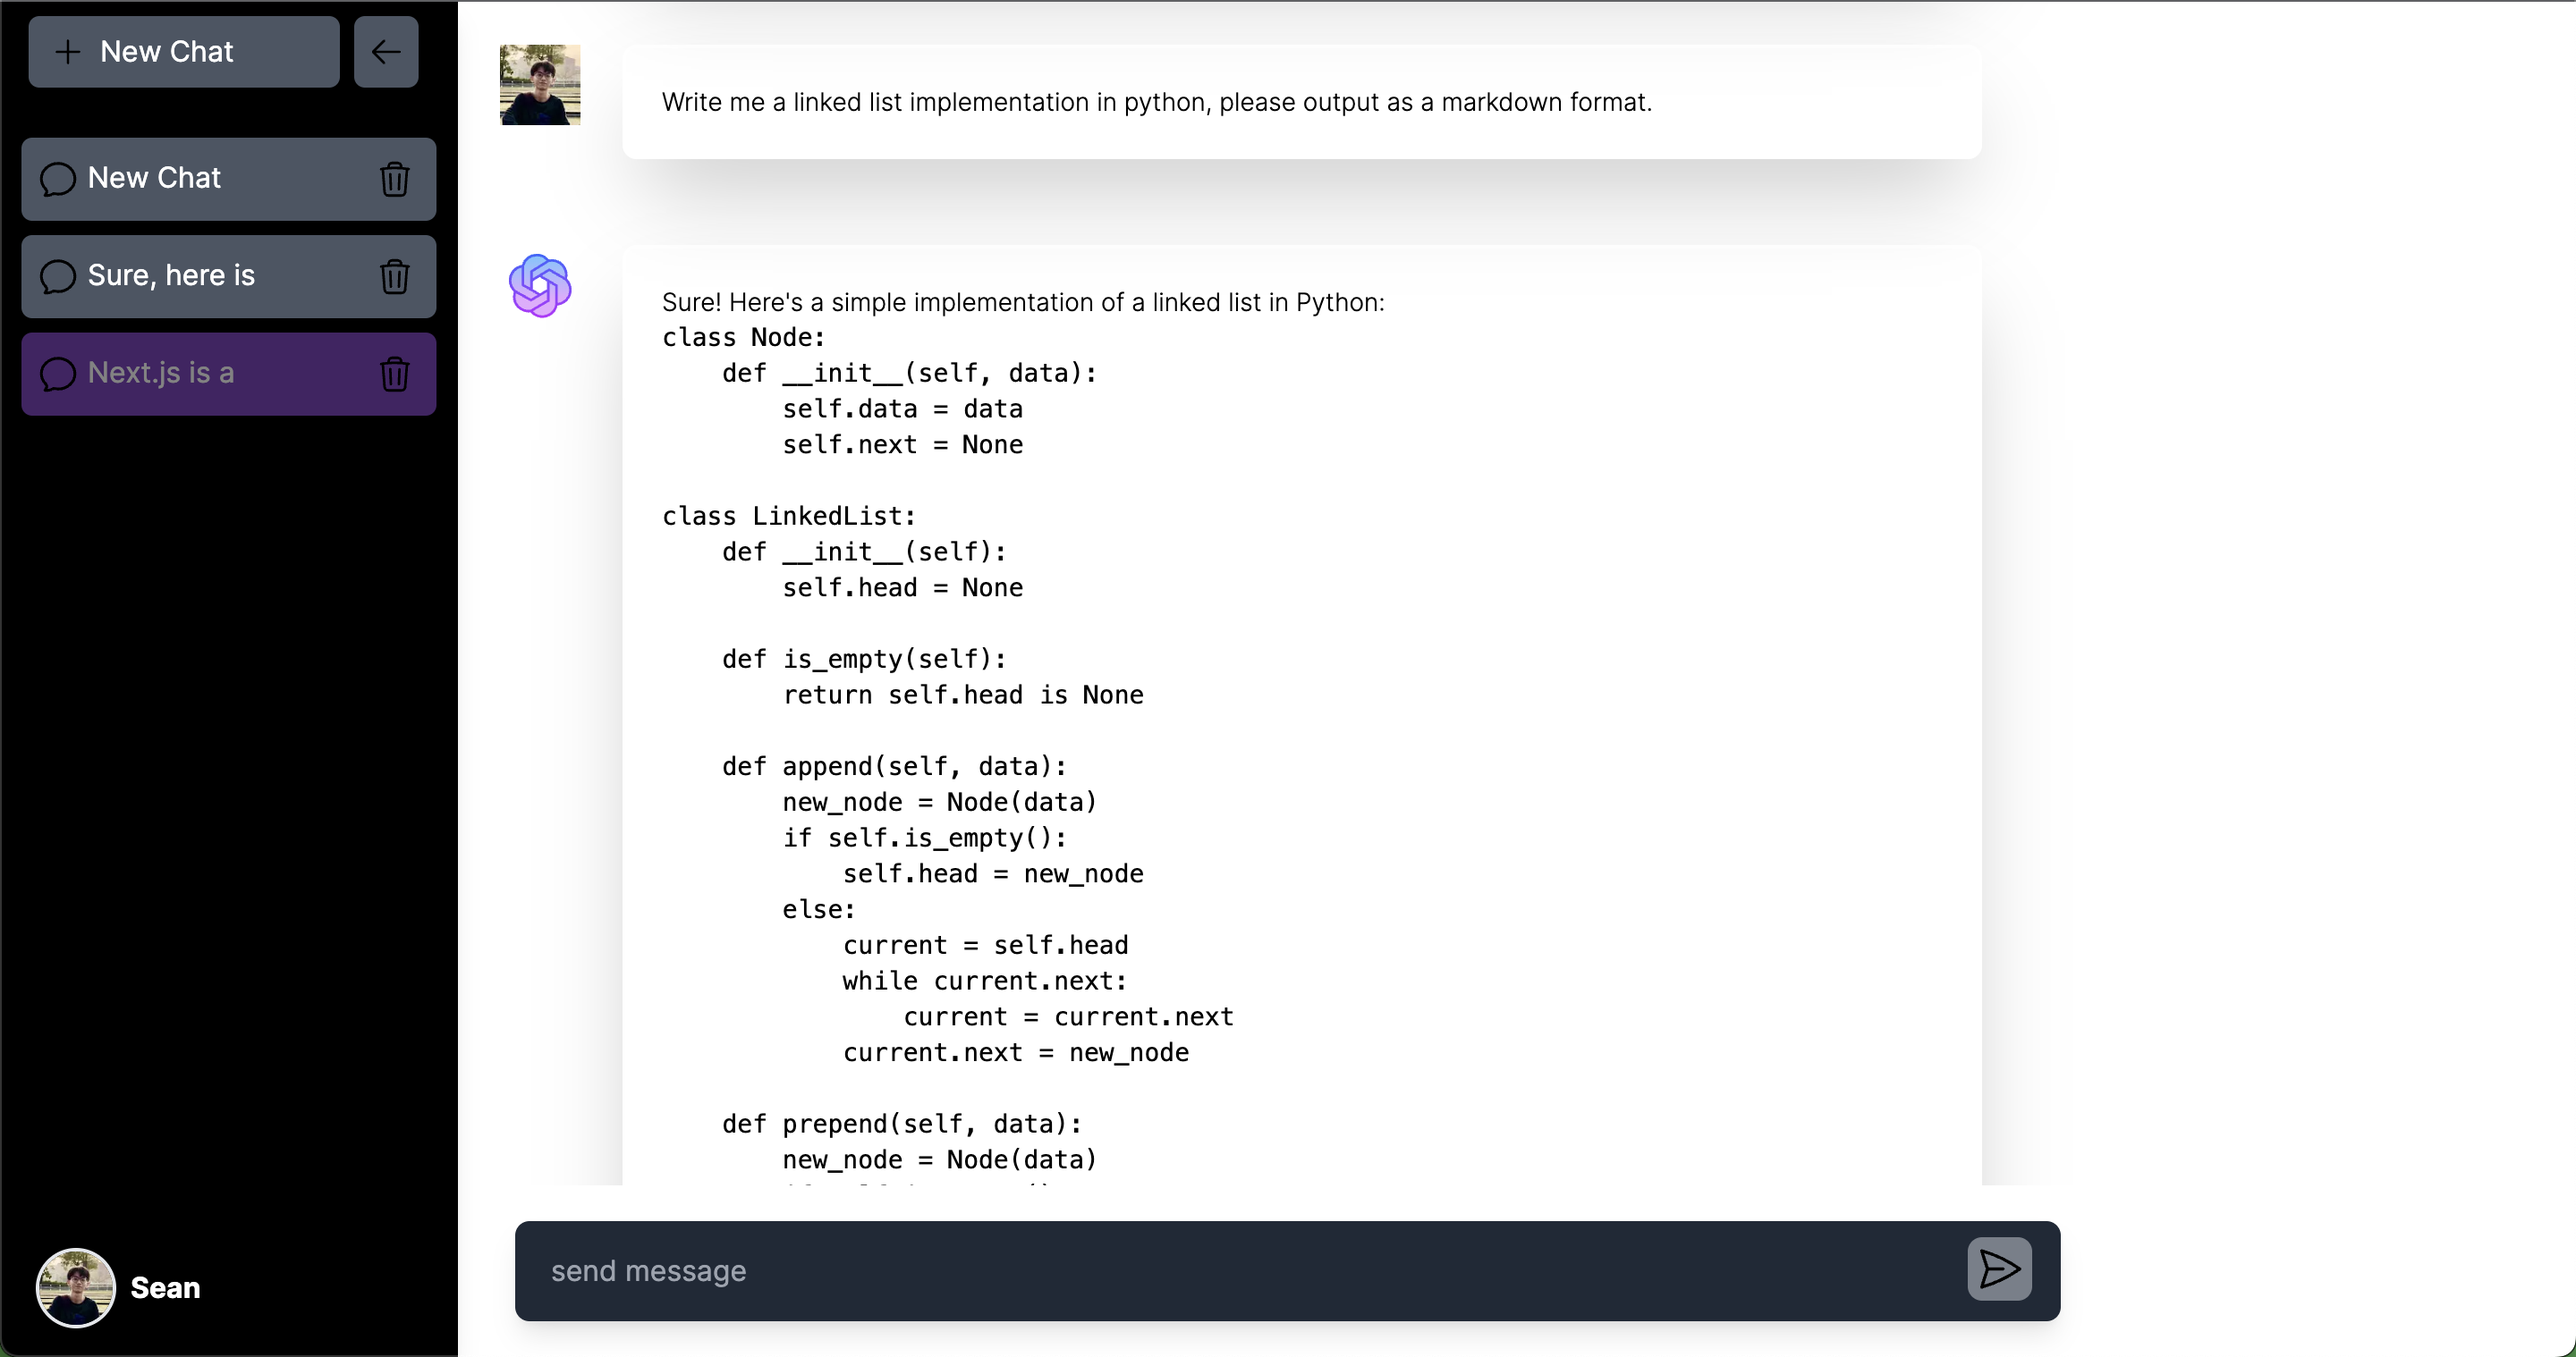
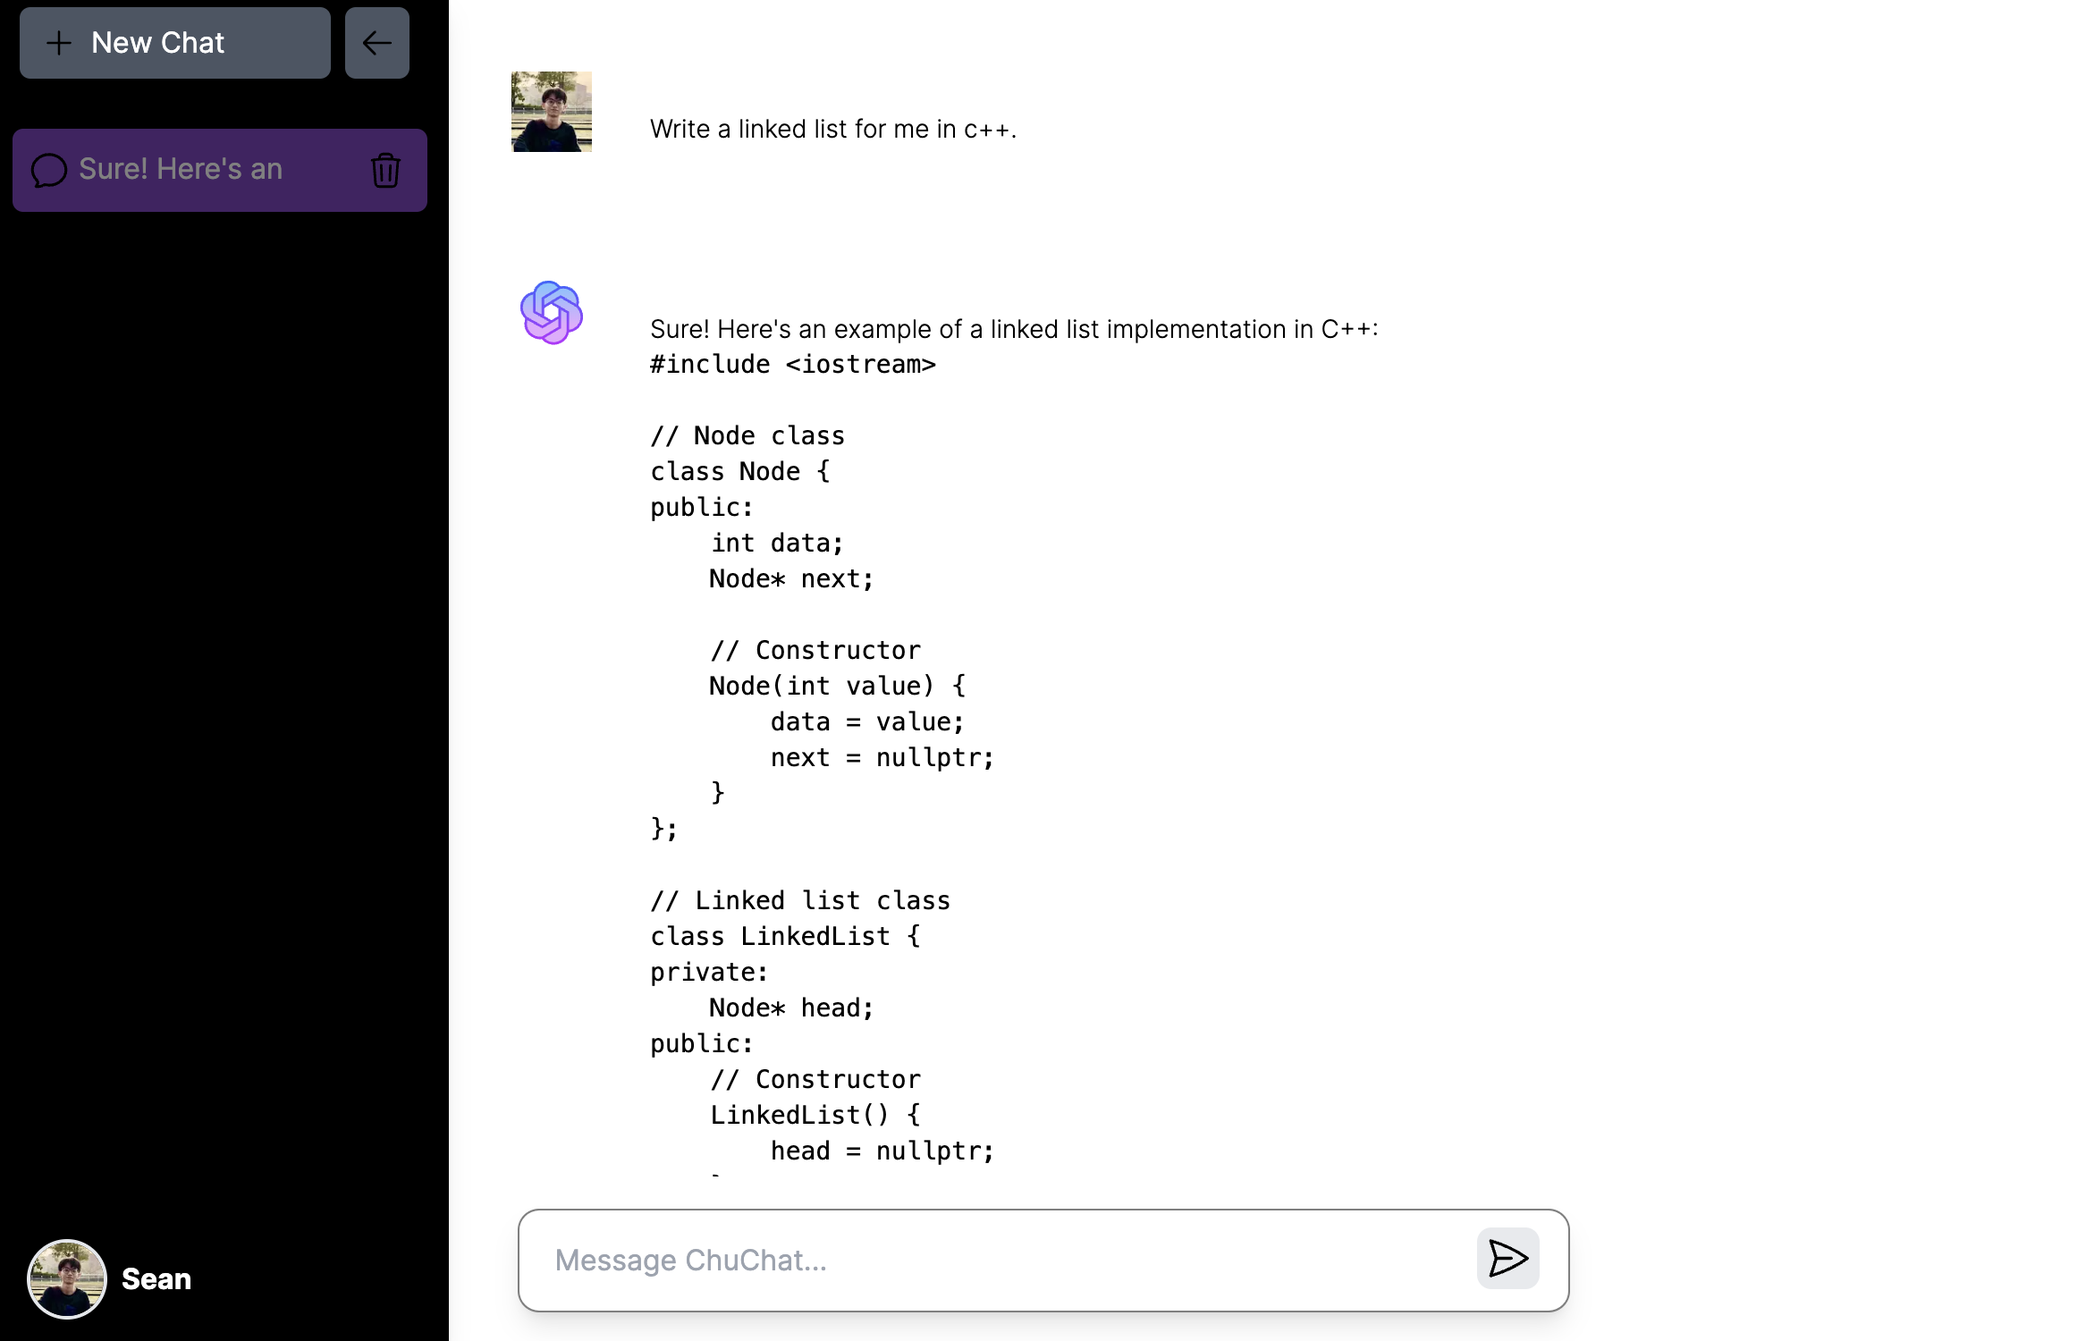
Modify landing page and add react tilt.

Changed region(s): [[0.0, 0.0, 0.8104, 1.0], [0.0, 0.92, 0.0935, 1.0], [0.9974, 0.9813, 1.0, 1.0]]

diff --git a/src/components/UserInputArea.jsx b/src/components/UserInputArea.jsx
@@ -12,8 +12,6 @@ const UserInputArea = ({ chatId }) => {
   const { data: session } = useSession();
   const [prompt, setPrompt] = useState("");
 
-
-
   const sendMessage = async (e) => {
     e.preventDefault();
     if (!prompt) return;
@@ -45,8 +43,6 @@ const UserInputArea = ({ chatId }) => {
 
         message
       );
-
-      // Toast notification
 
       // calling openai api
       const gptNotification = toast.loading("GPT is thinking...");
@@ -87,14 +83,36 @@ const UserInputArea = ({ chatId }) => {
           id: vertexAiNotification,
         });
       });
+
+
+      // // calling unformal bing chat api
+      // const bingChatNotification = toast.loading("Bing is thinking...");
+
+      // await fetch("/api/askBingQuestion", {
+      //   method: "POST",
+      //   headers: {
+      //     "Content-Type": "application/json",
+      //   },
+      //   body: JSON.stringify({
+      //     prompt: input,
+      //     chatId,
+      //     model: "",
+      //   }),
+      // }).then(() => {
+      //   // Toast notification to say successful
+      //   toast.success("Bing has responded!", {
+      //     id: bingChatNotification,
+      //   });
+      // });
+
+      // [end of all api calling]
     } catch (err) {
       console.log(err);
     }
   };
 
-  
   return (
-    <div className="bg-gray-800 rounded-lg p-2 shadow-lg w-3/5">
+    <div className="bg-white border-[1px] border-black/50 rounded-xl p-2 shadow-lg w-3/6">
       <form action="" className="flex items-center px-2" onSubmit={sendMessage}>
         {/**dynamically update the textarea height based on the user input */}
         <textarea
@@ -106,7 +124,7 @@ const UserInputArea = ({ chatId }) => {
           value={prompt}
           disabled={!session}
           rows={1}
-          placeholder="send message"
+          placeholder="Message ChuChat..."
           className="border-none outline-none resize-none bg-purple-white bg-gray-800
             disabled:cursor-not-allowed bg-transparent disabled:text-gray-300 py-2 px-1 rounded-md w-full text-white me-3"
         ></textarea>

diff --git a/src/components/Login.jsx b/src/components/Login.jsx
@@ -1,30 +1,41 @@
 "use client";
 import React from "react";
-import { signIn } from "next-auth/react";
 import Image from "next/image";
+import Navbar from "./Navbar";
+import Tilt from "react-parallax-tilt";
 
 const Login = () => {
   return (
-    <div className="bg-white h-screen flex flex-col items-center justify-center">
-      <h1 className=" text-black lg:text-6xl text-6xl font-bold">
-        <span className=" text-purple-500">Chu</span>Chat
-      </h1>
-      
-      <button
-        onClick={() => signIn("google")}
-        className="my-5 text-white font-semibold text-md border-1 rounded-md bg-purple-500 hover:bg-purple-500/50 px-3 py-2"
-      >
-        Getting start
-      </button>
-      <div className="shadow-xl overflow-hidden lg:flex md:flex hidden">
-        <Image
-          src={"/assets/images/demo1.png"}
-          width={700}
-          height={700}
-          alt="demo-img1"
-        ></Image>
+    <>
+      <Navbar />
+      {/**hero section */}
+
+      <div className="flex lg:flex-row md:flex-col flex-col items-center justify-center h-screen">
+        <div className="flex justify-start flex-col lg:me-20">
+          <div className=" lg:text-3xl md:text-5xl text-2xl p-1 text-justify">
+            <p>Elevate Your Conversation</p>
+            <p>
+              with<span className=" text-purple-600"> Double</span> Insight!
+            </p>
+          </div>
+
+          <div className="mb-10">
+            <p className="text-sm">Stay Ahead, and Chat Beyond Limits.</p>
+          </div>
+        </div>
+        <Tilt>
+          <div className=" lg:w-[550px] md:w-[550px] w-[330px]">
+            <Image
+              src={"/assets/images/demo1.png"}
+              width={550}
+              height={550}
+              alt="demo-img1"
+              className="rounded-md shadow-xl"
+            ></Image>
+          </div>
+        </Tilt>
       </div>
-    </div>
+    </>
   );
 };
 

diff --git a/src/components/Navbar.jsx b/src/components/Navbar.jsx
@@ -1,30 +1,39 @@
 "use client";
 
 import React from "react";
+import { signIn } from "next-auth/react";
 import Link from "next/link";
 import Image from "next/image";
 
 export default function Navbar() {
   return (
-    <header>
-      <nav className=" bg-gray-900 flex justify-between my-auto py-4 px-8 shadow-sm">
-        <Link href={"/"}>
-          <h1 className=" text-white text-3xl font-bold">
-            <span className=" text-purple-500">Chu</span>Chat
-          </h1>
-        </Link>
+    <nav className=" absolute top-0 bg-white border-b-[1px] border-gray-300/50 flex justify-between my-auto py-3 px-2 w-full shadow-sm">
+      <Link href={"/"}>
+        <div className="flex items-center justify-center">
+          <Image
+            src={"/assets/icons/app-icon.svg"}
+            width={30}
+            height={30}
+            alt="app-icon"
+          >
 
-        <ul className="flex items-center justify-end w-full">
-          <div className="flex justify-center bg-purple-500 px-3 py-2 rounded-lg">
-            {/**take the user to chatroom home page */}
-            <Link href={"/chat"}>
-              <button className="text-sm font-bold animate-pulse text-white">
-                Go To Chat
-              </button>
-            </Link>
-          </div>
-        </ul>
-      </nav>
-    </header>
+          </Image>
+        
+        <h1 className="ms-1 text-black text-2xl font-mono">
+          <span className=" text-purple-500">Chu</span>Chat
+        </h1>
+        </div>
+      </Link>
+
+      <ul className="flex items-center justify-end">
+        {/**take the user to chatroom home page */}
+        <button
+          onClick={() => signIn("google")}
+          className=" text-white font-semibold text-sm border-1 rounded-md animate-pulse bg-purple-500 hover:bg-purple-500/30 px-3 py-2"
+        >
+          Getting start
+        </button>
+      </ul>
+    </nav>
   );
 }

diff --git a/src/components/chat/ChatMessage.jsx b/src/components/chat/ChatMessage.jsx
@@ -10,7 +10,7 @@ const ChatMessage = ({ message }) => {
     message?.user.name === "Bard" ||
     message?.user.name === "Bing" ? (
     // The bot output
-    <div className="flex py-6 w-full px-3">
+    <div className="flex py-6 w-8/12 px-3">
       <div className="me-2 flex justify-center items-start w-1/12">
         <Image
           src={message.user.avatar}
@@ -20,7 +20,7 @@ const ChatMessage = ({ message }) => {
         ></Image>
       </div>
 
-      <div className="border-2 rounded-lg border-white/50 p-5 shadow-2xl w-10/12 font-light text-black">
+      <div className="border-2 rounded-lg border-white/50 p-5 w-10/12 font-light text-black">
         <Markdown
           className="flex flex-col overflow-scroll text-sm"
           remarkPlugins={[remarkGfm]}
@@ -31,7 +31,7 @@ const ChatMessage = ({ message }) => {
     </div>
   ) : (
     // The user output
-    <div className="flex py-6 w-full text-white px-3">
+    <div className="flex py-6 w-8/12 text-white px-3">
       <div className=" me-2 flex justify-center items-start w-1/12">
         <Image
           
@@ -42,7 +42,7 @@ const ChatMessage = ({ message }) => {
         ></Image>
       </div>
 
-      <div className=" border-2 rounded-lg border-white/50 p-5 shadow-2xl w-10/12 font-light text-black">
+      <div className=" border-2 rounded-lg border-white/50 p-5 w-10/12 font-light text-black">
         <Markdown className="flex text-sm flex-col overflow-scroll" remarkPlugins={[remarkGfm]}>{message.text}</Markdown>
       </div>
     </div>

diff --git a/src/pages/api/askBingQuestion.js b/src/pages/api/askBingQuestion.js
@@ -1,0 +1,54 @@
+import { BingChat } from "bing-chat";
+import admin from "firebase-admin";
+import { adminDb } from "../../../firebaseAdmin";
+import { getServerSession } from "next-auth";
+import { authOptions } from "./auth/[...nextauth]";
+
+const handler = async (req, res) => {
+  const { prompt, chatId, model } = req.body;
+
+  const session = await getServerSession(req, res, authOptions);
+
+  // Prevent user outside application ues our api.
+
+  if (!session.user) {
+    res.status(400).json({ answer: "Not authenticated." });
+  }
+  if (!prompt) {
+    res.status(400).json({ answer: "Please provide a prompt." });
+    return;
+  }
+
+  if (!chatId) {
+    res.status(400).json({ answer: "Please provide a chat id." });
+  }
+
+  // get response
+  const api = new BingChat({
+    cookie: process.env.BING_COOKIE,
+  });
+
+  const response = await api.sendMessage(prompt);
+  console.log("test: ", response.text)
+
+  const message = {
+    text: response.text || "Bing cannot find the answer for that!",
+    createAt: admin.firestore.Timestamp.now(),
+    user: {
+      _id: "assistant",
+      name: "Bing",
+      avatar: "/assets/images/icons8-bing.svg",
+    },
+  };
+
+  await adminDb
+    .collection("users")
+    .doc(session?.user?.email)
+    .collection("chats")
+    .doc(chatId)
+    .collection("messages")
+    .add(message);
+  res.status(200).json({ answer: message.text });
+};
+
+export default handler;

diff --git a/src/app/layout.js b/src/app/layout.js
@@ -20,8 +20,8 @@ export default async function RootLayout({ children }) {
   return (
     <SessionProvider session={session}>
       <html lang="en">
-        <body className={`${inter.className} bg-white`}>
-          <main className="mx-auto min-w-max bg-white h-screen">
+        <body className={`${inter.className} bg-white w-full`}>
+          <main className="mx-auto min-w-max bg-white">
             <ClientProvider />
             {children}
           </main>

diff --git a/src/components/chat/Chat.jsx b/src/components/chat/Chat.jsx
@@ -17,7 +17,7 @@ const Chat = ({ chatId }) => {
 
   return (
     <div
-      className="mx-auto break-words h-full overflow-scroll flex flex-col lg:w-[60rem] md:w-[25rem] w-[25rem]
+      className="mx-auto break-words h-full overflow-scroll flex flex-col lg:w-[50rem] md:w-[25rem] w-[25rem]
           bg-white px-3 items-center justify-start py-5"
     >
       {messages?.docs.map((mess) => {
